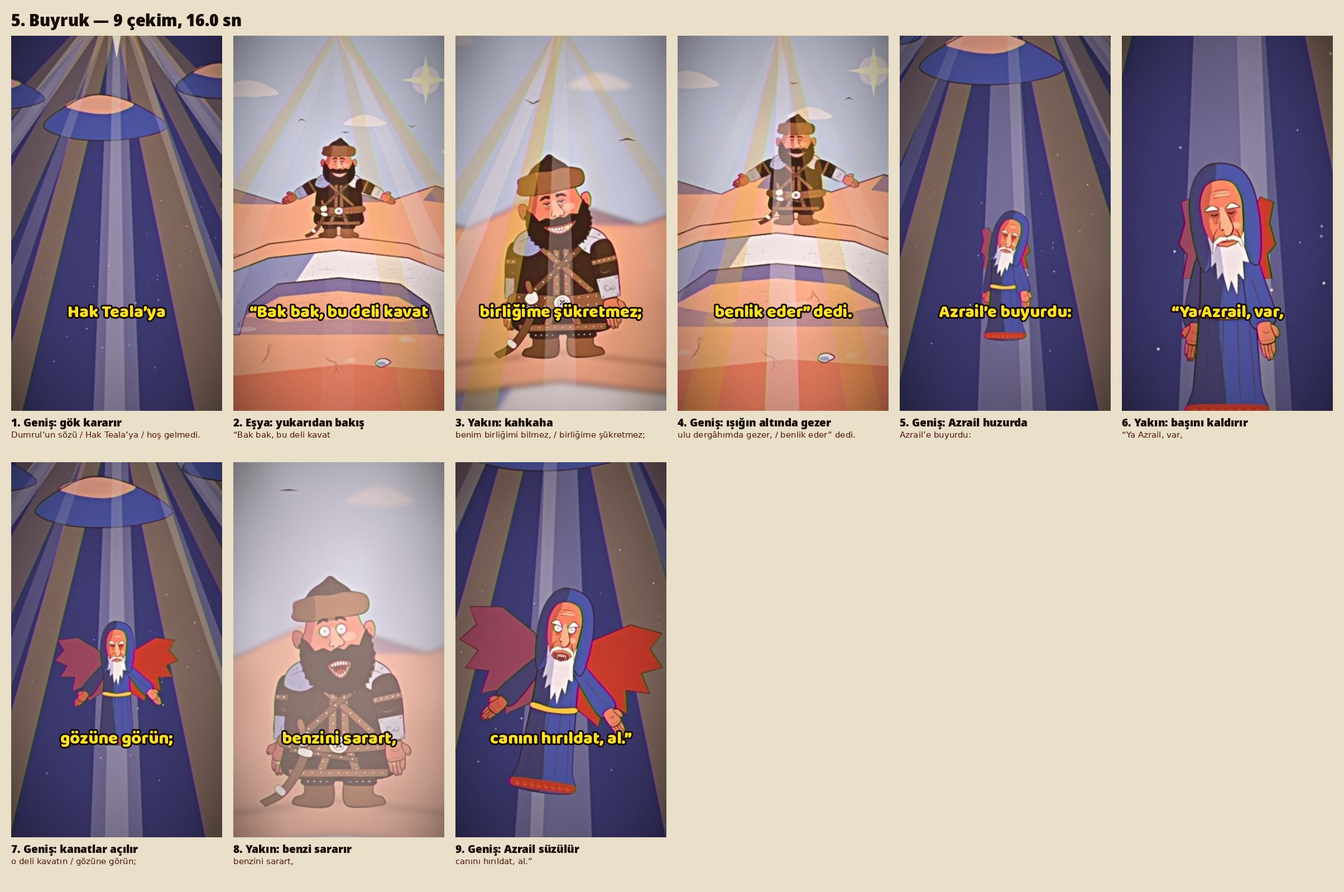
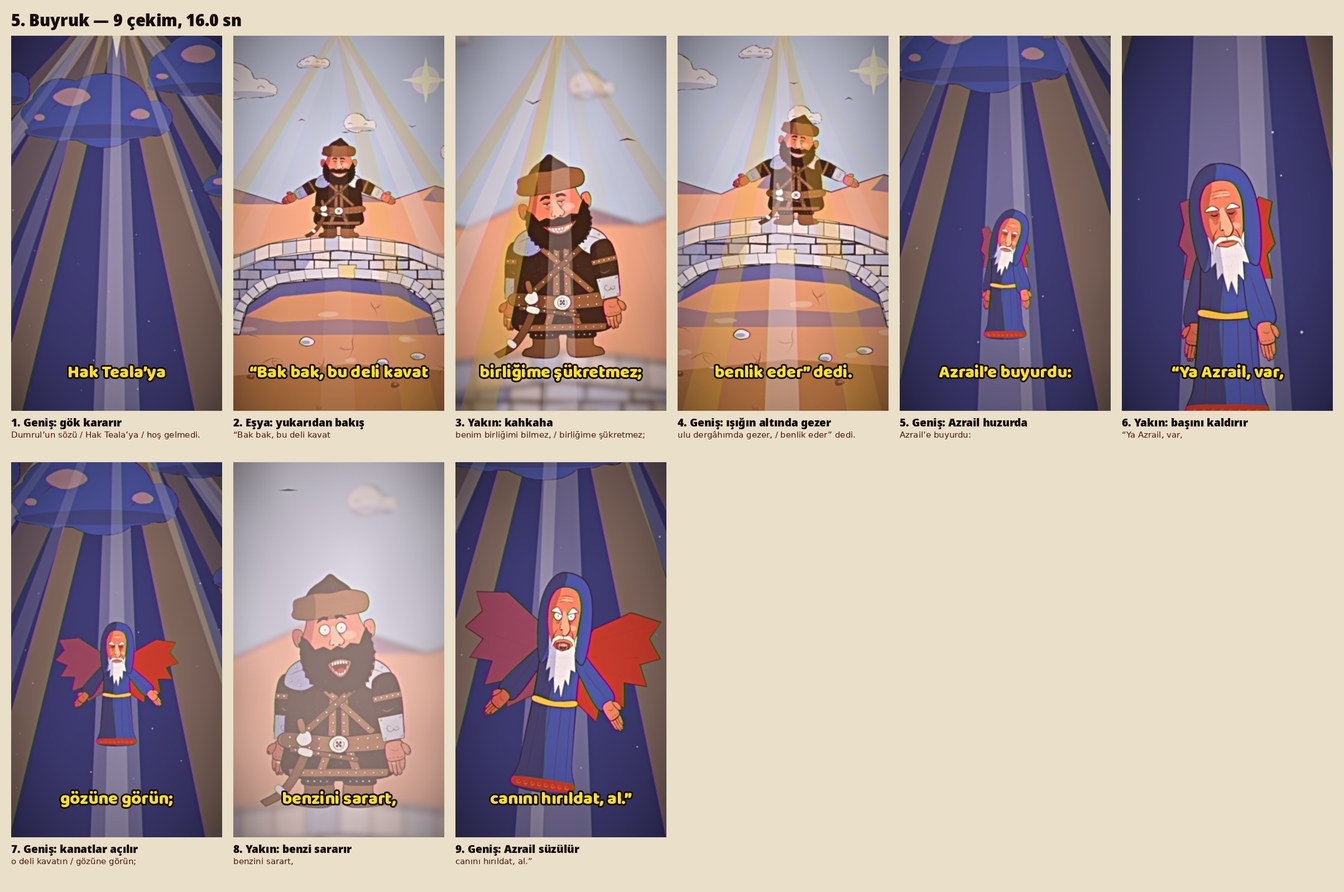
Canlandırma ilkeleri (hazırlık, ardından gelme, ezilme-uzama, yay, ikincil hareket, kişiye göre tempo); taş köprü, toprak yer, düzensiz bulutlar; al kanatlı Azrail çekimi, gerçek tüy

diff --git a/shorts/deli_dumrul/sets2.py b/shorts/deli_dumrul/sets2.py
@@ -4,17 +4,41 @@ from ..kit import *
 from .cast import COBALT, SKIN, SKIN_L, SKIN_D, PALE, GOLD, RED, COAT, LEATHER
 from . import sets as S
 from .cast import strap
+from ..kit import _scatter
 
 DAY = '#b7c4f0'       # gündüz göğü: mavinin açığı
 W, H = 1500, 1920
+
+
+EARTH, EARTH_D = '#b0683a', '#7a4426'   # toprak ve koyusu (yer, köprünün taşından ayrışsın diye)
+
+
+def cloud(cx, cy, k, name, col=PALE, lit=None, shade=COBALT):
+    """Küme bulut: irili ufaklı, düzensiz yumrular; altı düzçe ve gölgeli. Her bulut adına göre başka biçim alır."""
+    reseed('cloud' + name)
+    n = int(R(4, 8)); lobes = []; x = cx - k * R(120, 190)
+    for i in range(n):
+        mid = 1 - abs(i - (n - 1) / 2) / (n / 2 + 0.5)
+        r = k * R(34, 62) * (0.55 + 0.75 * mid) * R(0.8, 1.25)
+        lobes.append((x, cy - r * R(0.35, 0.8) - k * R(0, 26) * mid, r * R(1.0, 1.35), r))
+        x += r * R(0.8, 1.25)
+    x0, x1 = lobes[0][0] - lobes[0][2] * 0.7, lobes[-1][0] + lobes[-1][2] * 0.7
+    base = [(x0, cy - 6 * k), (x0 + 20 * k, cy + R(6, 16) * k), ((x0 + x1) / 2 + R(-40, 40) * k, cy + R(10, 22) * k), (x1 - 24 * k, cy + R(4, 14) * k), (x1, cy - 8 * k), ((x0 + x1) / 2, cy - 30 * k)]
+    shapes = [ellipse(lx, ly, rx, ry, 10, 0.06) for lx, ly, rx, ry in lobes] + [base]
+    s = ''.join(ink(p, 3.0, closed=True, wob=0.8, press=0.5) for p in shapes) + ''.join(fill(p, col, 1.2) for p in shapes)      # önce çizgiler, sonra dolgular: yalnız dış çevre kalır
+    s += fill([(x0 + 10 * k, cy - 4 * k), ((x0 + x1) / 2, cy - 16 * k), (x1 - 10 * k, cy - 6 * k), (x1 - 30 * k, cy + 10 * k), ((x0 + x1) / 2, cy + 16 * k), (x0 + 26 * k, cy + 10 * k)], shade, 1.0, op=0.22)
+    for lx, ly, rx, ry in lobes[::2]:
+        s += ink([(lx - rx * 0.5, ly + ry * 0.1), (lx - rx * 0.1, ly - ry * 0.25), (lx + rx * 0.4, ly + ry * 0.05)], 2.0, wob=0.4)        # yumru kıvrımı
+        if lit: s += fill(ellipse(lx + rx * 0.15, ly - ry * 0.4, rx * 0.5, ry * 0.3, 8, 0.1), lit, 0.8, op=0.55)
+    return s
 
 
 def day_sky():
     reseed('daysky')
     s = f'<rect x="-1500" y="-1500" width="{W + 3000}" height="{H + 3000}" fill="{DAY}"/>'
     s += fill(ellipse(1180, 260, 70, 70, 12, 0.01), PALE, 0.8) + sparkle(1180, 260, 120, '#fff6d8')
-    for cx, cy, k in ((300, 330, 1.0), (880, 480, 0.7), (1380, 620, 0.8)):
-        s += fill([(cx - 150 * k, cy), (cx - 90 * k, cy - 46 * k), (cx - 10 * k, cy - 70 * k), (cx + 80 * k, cy - 50 * k), (cx + 150 * k, cy), (cx, cy + 14 * k)], PALE, 1.4)
+    for i, (cx, cy, k) in enumerate(((300, 330, 1.0), (900, 500, 0.62), (1400, 640, 0.8), (-200, 600, 0.9), (640, 190, 0.45))):
+        s += cloud(cx, cy, k, f'day{i}')
     return s
 
 
@@ -27,25 +51,75 @@ def day_hills():
     return s + ink(far[:-2], 3.0, smooth=False, wob=0.5, taper=(0, 0))
 
 
+def stones(poly, cid, course=46, wmin=58, wmax=118, name='wall'):
+    """Bir alanı tek tek çizilmiş, sıra sıra örülmüş kesme taşlarla doldurur; her taşın tonu biraz başkadır."""
+    reseed('stones-' + name)
+    xs = [p[0] for p in poly]; ys = [p[1] for p in poly]
+    s = clipdef(cid, poly, smooth=False) + f'<g clip-path="url(#{cid})">' + fill(poly, INK, 0, smooth=False)
+    y = min(ys); row = 0
+    while y < max(ys):
+        x = min(xs) - R(0, wmax) * (row % 2 + 0.3)
+        while x < max(xs):
+            w = R(wmin, wmax); g = 3
+            q = [(x + g + R(-2, 2), y + g + R(-2, 2)), (x + w - g + R(-2, 2), y + g + R(-2, 2)), (x + w - g + R(-2, 2), y + course - g + R(-2, 2)), (x + g + R(-2, 2), y + course - g + R(-2, 2))]
+            s += fill(q, PALE, 1.2, smooth=False)
+            tone = R(0, 1)
+            s += fill(q, COBALT if tone < 0.6 else LEATHER, 0, smooth=False, op=R(0.06, 0.3) if tone < 0.6 else R(0.1, 0.28))
+            if R(0, 1) > 0.55: s += ink([(x + w * R(0.2, 0.4), y + course * R(0.3, 0.7)), (x + w * R(0.5, 0.8), y + course * R(0.3, 0.7))], 1.8, wob=0.4, taper=(0.2, 0.5), smooth=False)   # yontma izi
+            if R(0, 1) > 0.8: s += dots(q, 5, (1.0, 1.8))
+            x += w
+        y += course; row += 1
+    return s + '</g>'
+
+
 def bridge():
-    """Kuru çay ve üstündeki taş köprü; yanında haraç direği ve al bayrak."""
+    """Kuru çay ve üstündeki kesme taş köprü; yanında haraç direği ve al bayrak. Yer toprak, çay yatağı çatlak balçık, köprü taş."""
     reseed('bridge-ground')
-    s = fill([(-900, 1180), (W + 900, 1170), (W + 900, H + 900), (-900, H + 900)], SKIN, 1.5, smooth=False)
+    s = fill([(-900, 1180), (W + 900, 1170), (W + 900, H + 900), (-900, H + 900)], EARTH, 1.5, smooth=False)
+    s += fill([(-900, 1180), (W + 900, 1170), (W + 900, 1230), (700, 1250), (-900, 1240)], SKIN, 1.5, smooth=False, op=0.55)                 # ufka yakın, güneşte ağaran toprak
+    area = [(-300, 1230), (W + 300, 1230), (W + 300, H + 100), (-300, H + 100)]
+    s += ticks(area, 150, (8, 20), 0.05, 0.25, 2.2, EARTH_D)                                                                               # toprak izleri
+    for x, y in _scatter(area, 46):                                                                                                         # kesekler ve çakıllar
+        r = R(7, 20)
+        s += blob(ellipse(x, y, r, r * 0.6, 6, 0.25), EARTH_D if R(0, 1) > 0.35 else PALE, 2.0) + fill(ellipse(x + r * 0.2, y - r * 0.2, r * 0.45, r * 0.22, 5), SKIN_L, 0.4, op=0.6)
+    for x, y in _scatter(area, 22):                                                                                                         # kuru ot öbekleri
+        s += ''.join(ink([(x + k * 5, y), (x + k * 9 + R(-3, 3), y - R(16, 34))], 2.4, col=EARTH_D, op=1, taper=(0, 0.7), wob=0, smooth=False) for k in (-2, -1, 0, 1, 2))
     bed = [(-200, 1560), (200, 1420), (700, 1380), (1300, 1430), (1700, 1560), (1700, 1760), (800, 1700), (-200, 1800)]
-    s += fill(bed, SKIN_L, 1.6, smooth=False) + ink(bed[:5], 3.0, smooth=False, wob=0.8, taper=(0, 0))
-    for x, y in ((260, 1560), (520, 1500), (820, 1560), (1100, 1520), (680, 1660), (380, 1700), (1280, 1640)): s += cracks(x, y, 120, R(0, 6.28), 2, 2.2)   # çatlamış çay yatağı
-    for x, y in ((180, 1640), (960, 1690), (1360, 1560)): s += blob(ellipse(x, y, 34, 20, 7, 0.2), PALE, 2.8) + fill(ellipse(x - 8, y + 6, 22, 9, 6), COBALT, 0.6, op=0.4)
+    s += fill([(x, y - 26) for x, y in bed[:5]] + bed[4::-1], EARTH_D, 1.6, smooth=False)                                                    # yarın dik kıyısı
+    s += fill(bed, SKIN_L, 1.6, smooth=False) + fill(bed, EARTH, 1.6, smooth=False, op=0.4) + ink(bed[:5], 3.4, smooth=False, wob=0.9, taper=(0, 0))
+    for x, y in ((260, 1560), (520, 1500), (820, 1560), (1100, 1520), (680, 1660), (380, 1700), (1280, 1640), (960, 1460), (140, 1700), (1450, 1600)):
+        s += cracks(x, y, 130, R(0, 6.28), 2, 2.4)                                                                                           # çatlamış çay yatağı
+    for x, y in ((180, 1640), (960, 1690), (1360, 1560), (600, 1590), (1120, 1660)):
+        s += blob(ellipse(x, y, R(24, 40), R(14, 22), 7, 0.2), PALE, 2.8) + fill(ellipse(x - 8, y + 6, 22, 9, 6), COBALT, 0.6, op=0.4)        # dere taşları
     reseed('bridge')
     deck = [(120, 1250), (420, 1130), (750, 1090), (1080, 1130), (1380, 1250), (1380, 1310), (1080, 1196), (750, 1160), (420, 1196), (120, 1310)]
     wall = [(120, 1310), (420, 1196), (750, 1160), (1080, 1196), (1380, 1310), (1380, 1560), (1220, 1560), (1180, 1420), (1040, 1320), (750, 1290), (460, 1320), (320, 1420), (280, 1560), (120, 1560)]
-    s += fill(wall, PALE, 1.4, smooth=False) + fill([(120, 1310), (420, 1196), (640, 1168), (540, 1320), (460, 1320), (320, 1420), (280, 1560), (120, 1560)], COBALT, 1.2, smooth=False, op=0.55)
     hole = [(460, 1320), (750, 1290), (1040, 1320), (1180, 1420), (1220, 1560), (280, 1560), (320, 1420)]
-    s += fill(hole, SKIN_L, 1.0, smooth=False) + fill([(460, 1320), (750, 1290), (1040, 1320), (1180, 1420), (1196, 1470), (1030, 1380), (750, 1352), (470, 1380), (304, 1470), (320, 1420)], COBALT, 1.0, smooth=False, op=0.7)   # kemerin iç yüzü gölgede
-    s += fill([(280, 1560), (304, 1470), (470, 1500), (760, 1486), (1050, 1500), (1196, 1470), (1220, 1560)], COBALT, 0.8, smooth=False, op=0.35) + ink(hole[:5], 3.0, smooth=False, wob=0.5, taper=(0, 0))
-    s += '<g>' + masonry(130, 1210, 1370, 1540, 40, 2.0) + '</g>' + ink(wall, 3.6, closed=True, smooth=False, wob=0.6)
-    s += fill(deck, SKIN_L, 1.2, smooth=False) + ink(deck, 3.4, closed=True, smooth=False, wob=0.6) + cracks(900, 1400, 90, 1.3, 2, 2.0) + cracks(300, 1480, 70, 2.0, 1, 2.0)
+    # kemerin içinden görünen karşı kıyı ve iç yüzün gölgesi
+    s += fill(hole, SKIN_L, 1.0, smooth=False) + fill(hole, EARTH, 1.0, smooth=False, op=0.4)
+    s += fill([(460, 1320), (750, 1290), (1040, 1320), (1180, 1420), (1196, 1470), (1030, 1380), (750, 1352), (470, 1380), (304, 1470), (320, 1420)], COBALT, 1.0, smooth=False, op=0.8)
+    s += fill([(280, 1560), (304, 1470), (470, 1500), (760, 1486), (1050, 1500), (1196, 1470), (1220, 1560)], COBALT, 0.8, smooth=False, op=0.4)
+    s += stones(wall, 'bw')
+    s += fill([(120, 1310), (420, 1196), (640, 1168), (540, 1320), (460, 1320), (320, 1420), (280, 1560), (120, 1560)], COBALT, 1.2, smooth=False, op=0.38)   # gölgede kalan yan
+    # kemer taşları: kemer boyunca dizili kama taşlar, ortada kilit taşı
+    arch = catmull([(280, 1560), (320, 1420), (460, 1320), (750, 1290), (1040, 1320), (1180, 1420), (1220, 1560)], False, 4)
+    for i in range(len(arch) - 1):
+        (x0, y0), (x1, y1) = arch[i], arch[i + 1]
+        dx, dy = x1 - x0, y1 - y0; d = math.hypot(dx, dy) or 1; nx, ny = dy / d, -dx / d
+        key = abs(i - (len(arch) - 1) / 2) < 0.6; t = 62 if key else 46
+        q = [(x0, y0), (x1, y1), (x1 + nx * t + dx * 0.08, y1 + ny * t), (x0 + nx * t - dx * 0.08, y0 + ny * t)]
+        s += fill(q, PALE, 1.0, smooth=False) + fill(q, GOLD if key else COBALT, 0, smooth=False, op=0.5 if key else R(0.04, 0.2)) + ink(q, 2.6, closed=True, smooth=False, wob=0.4)
+    s += ink(wall, 3.8, closed=True, smooth=False, wob=0.6)
+    # korkuluk: yan yana yatırılmış kapak taşları
+    top = catmull(deck[:5], False, 5); bot = catmull(deck[9:4:-1], False, 5)
+    s += fill(deck, PALE, 1.2, smooth=False)
+    for i in range(len(top) - 1):
+        q = [top[i], top[i + 1], bot[i + 1], bot[i]]
+        s += fill(q, PALE, 0.8, smooth=False) + fill(q, SKIN_L if i % 3 else COBALT, 0, smooth=False, op=R(0.1, 0.3)) + ink(q, 2.6, closed=True, smooth=False, wob=0.4)
+        if i % 2: s += ticks(q, 2, (6, 12), 0.2, 0.4, 1.8)
+    s += ink(deck, 3.6, closed=True, smooth=False, wob=0.6) + cracks(900, 1400, 80, 1.3, 2, 2.2) + cracks(300, 1480, 70, 2.0, 1, 2.2)
+    for x, y in ((150, 1556), (1350, 1556), (1240, 1556), (262, 1556)): s += ''.join(ink([(x + k * 6, y), (x + k * 10, y - R(14, 30))], 2.4, col=EARTH_D, op=1, taper=(0, 0.7), wob=0, smooth=False) for k in (-1, 0, 1))   # ayaklardaki otlar
     s += ink([(1420, 1300), (1424, 900)], 12, col=LEATHER, taper=(0.02, 0.1), wob=0.6, press=0.1, smooth=False) + blob([(1426, 910), (1560, 930), (1530, 980), (1570, 1030), (1426, 1020)], RED, 3.0) + medallion(1480, 968, 20, GOLD, 2.0)
-    s += ticks([(-200, 1200), (W + 200, 1200), (W + 200, 1380), (-200, 1380)], 60, (5, 10), 1.57, 0.5, 2.0)
     return s
 
 
@@ -105,9 +179,8 @@ def heaven():
         a = -0.9 + i * 0.225; x1 = 750 + math.sin(a) * 2400; w = 70 + (i % 3) * 40
         s += fill([(750 - 30, 60), (750 + 30, 60), (x1 + w, 2100), (x1 - w, 2100)], [GOLD, PALE, GOLD][i % 3], 0, smooth=False, op=0.26 + 0.1 * (i % 2))
     s += fill(ellipse(750, 80, 220, 120, 12, 0.02), PALE, 0, op=0.9) + sparkle(750, 80, 260, '#fff6d8')
-    for cx, cy, k in ((240, 520, 1.3), (1220, 470, 1.4), (700, 640, 1.8), (80, 880, 1.2), (1400, 900, 1.3)):
-        cl = [(cx - 150 * k, cy), (cx - 96 * k, cy - 50 * k), (cx - 20 * k, cy - 78 * k), (cx + 70 * k, cy - 56 * k), (cx + 150 * k, cy), (cx + 60 * k, cy + 30 * k), (cx - 70 * k, cy + 30 * k)]
-        s += fill(cl, COBALT, 1.6) + fill([cl[1], cl[2], cl[3], (cx, cy - 30 * k)], SKIN_L, 1.2, op=0.9) + ink(cl, 3.0, closed=True, wob=0.8)
+    for i, (cx, cy, k) in enumerate(((240, 520, 1.3), (1220, 470, 1.5), (700, 660, 1.9), (80, 900, 1.2), (1400, 920, 1.35))):
+        s += cloud(cx, cy, k, f'heaven{i}', COBALT, SKIN_L, INK)
     for _ in range(40): s += f'<circle cx="{R(0, W):.0f}" cy="{R(900, 1800):.0f}" r="{R(1.2, 3):.1f}" fill="{PALE}" opacity="{R(0.4, 0.9):.2f}"/>'
     return s
 

diff --git a/shorts/deli_dumrul/engine.py b/shorts/deli_dumrul/engine.py
@@ -49,25 +49,84 @@ BLINKERS = ('neutral', 'smug', 'stern', 'joy', 'grief', 'anger')
 BLINK = {'dumrul': 'blink', 'azrail': 'blink'}
 
 
-def actor(spec, u, idx=0):
+# Zamanlama: her kişinin kendi temposu (yay sıklığı, sönüm). Ağır Dumrul geç oturur, Azrail taşmadan durur, oğlancıklar çabuktur.
+TEMPO = {'dumrul': (1.7, 4.0), 'rider': (1.7, 4.0), 'father': (1.3, 3.2), 'mother': (1.6, 4.0), 'azrail': (0.9, 6.5), 'boy0': (3.0, 5.5), 'boy1': (3.0, 5.5),
+         'dede': (1.2, 4.0), 'wife': (2.2, 5.0), 'trav': (2.6, 5.0), 'horse': (1.6, 4.0)}
+clamp = lambda v, lo, hi: max(lo, min(hi, v))
+
+
+def pose(spec, u, nfr):
+    """Oyuncunun u anındaki duruşu. Hazırlık (anticipation): harekete geçmeden birkaç kare önce ters yöne hafifçe çekilir.
+    Yay (arc): 'arc' verilmişse yer değiştirme düz çizgide değil kavis üstünde olur."""
     kind, p0 = spec[0], spec[1]
     p1 = spec[2] if len(spec) > 2 else None
     t0 = spec[3] if len(spec) > 3 else 0.12
-    p = dict(p0)
+    p = dict(p0); k = 0.0
     if p1:
-        k = (ease if p1.get('glide') else spring)((u - t0) / max(1e-6, 1 - t0)) if u > t0 else 0.0
+        d = max(1e-6, 1 - t0)
+        if p1.get('glide'): k = ease((u - t0) / d) if u > t0 else 0.0
+        else:
+            ant = min(t0, 5.0 / nfr)
+            if u > t0: k = spring((u - t0) / d, *TEMPO.get(kind, (2.2, 5.0)))
+            elif ant > 0 and u > t0 - ant: k = -0.16 * math.sin(math.pi * (u - (t0 - ant)) / ant)
         for key, v in p1.items():
             if isinstance(v, bool) or not isinstance(v, (int, float)): p[key] = v if u > t0 else p0.get(key, v)
             else: p[key] = lerp(p0.get(key, v), v, k)
+        arc = p1.get('arc', 0.18 * abs(p1.get('x', p0['x']) - p0['x']) if kind == 'dove' else 0)
+        if arc: p['y'] -= arc * math.sin(math.pi * clamp(k, 0, 1))
+    p['_t0'] = t0 if p1 else None
+    return p
+
+
+def actor(spec, u, idx=0, nfr=45):
+    kind = spec[0]
+    p = pose(spec, u, nfr); q = pose(spec, u - 4.0 / nfr, nfr)            # dört kare önceki duruş: hız buradan çıkar
+    vx, vy, vr = p['x'] - q['x'], p['y'] - q['y'], p.get('rot', 0) - q.get('rot', 0)
     e = p.get('e', 'neutral')
-    if e in BLINKERS and abs((F.NOW * 0.52 + idx * 0.37) % 1 - 0.5) < 0.03 and not kind.startswith(('extra', 'dead', 'horse', 'falcon', 'trav', 'dove', 'goblet', 'rider')): e = 'blink'
-    s = p.get('s', 0.6)
+    still = kind.startswith(('extra', 'dead', 'horse', 'falcon', 'trav', 'dove', 'goblet', 'rider'))
+    if e in BLINKERS and abs((F.NOW * 0.52 + idx * 0.37) % 1 - 0.5) < 0.03 and not still: e = 'blink'
+    s = p.get('s', 0.6); t = F.NOW
     foot, fn = KINDS[kind]
-    bob = math.sin(F.NOW * 2.1 + idx * 1.7) * 2.5 * s                                    # nefes
-    if p.get('walk'): bob += abs(math.sin(F.NOW * 9 + idx)) * 22 * s                      # yürüyüş, koşu
-    rot = p.get('rot', 0) + (math.sin(F.NOW * 13) * 5 if p.get('gallop') else 0) + (math.sin(F.NOW * 26) * 2.5 * p.get('shake', 0))
-    if p.get('gallop'): bob += abs(math.sin(F.NOW * 13)) * 40 * s
-    return (p.get('z', p['y'] + foot * s), at(fn(p, e), p['x'], p['y'] - bob, s, rot, p.get('flip', False)))
+    x, y, rot = p['x'], p['y'], p.get('rot', 0)
+    y -= math.sin(t * 2.1 + idx * 1.7) * 2.5 * s                                         # nefes
+    sx = sy = 1.0
+    # --- ikincil hareket: herkesin kendi küçük işi
+    if kind.startswith('extra'):
+        if e == 'fear': rot += math.sin(t * 31 + idx) * 1.3                               # korkudan titrer
+        else:
+            rot += 2.5 * math.sin(t * 1.1 + idx * 2)
+            ph = (t * 0.23 + idx * 0.31) % 1
+            if ph < 0.14: w = math.sin(math.pi * ph / 0.14); rot -= 9 * w; y -= 9 * w * s   # kadehinden bir yudum
+    elif kind.startswith('mourner'): rot += 5 * math.sin(t * 2.4 + idx * 1.3); y += 6 * s * math.sin(t * 4.8 + idx)   # ağıtla sallanır
+    elif kind.startswith('boy'): y -= abs(math.sin(t * 3 + idx)) * 7 * s                   # yerinde duramaz
+    elif kind == 'falcon': rot += 7 * round(math.sin(t * 1.4))                             # başını bir o yana bir bu yana eğer
+    elif kind == 'azrail': y += 5 * math.sin(t * 1.2)                                      # ağır ağır süzülür
+    elif kind == 'dede': rot += 2 * math.sin(t * 3)                                        # kopuzla sallanır
+    # --- yürüyüş, dörtnal: basarken ezilir, havadayken uzar
+    if p.get('walk'):
+        c = abs(math.sin(t * 9 + idx)); y -= c * 22 * s; sy *= 0.95 + 0.09 * c
+    if p.get('gallop'):
+        c = abs(math.sin(t * 13)); y -= c * 40 * s; rot += math.sin(t * 13) * 5; sy *= 0.93 + 0.12 * c
+    rot += math.sin(t * 26) * 2.5 * p.get('shake', 0)
+    # --- ezilme ve uzama: hızlı düşey harekette uzar; 'land' anında yere çarpıp ezilir, sonra toparlanır
+    st = min(0.16, abs(vy) / (700 * s)); sy *= 1 + st
+    if 'land' in p:
+        n = (u - p['land']) * nfr
+        if 0 <= n < 14:
+            sq = 0.24 * math.exp(-n / 3.5) * math.cos(n * 0.8)
+            if abs(rot) > 45: sx *= 1 - sq                                                   # yatan gövdede yere dik eksen gövdenin enidir
+            else: sy *= 1 - sq
+    if p['_t0'] is not None and e in ('shock', 'fear', 'wrath') and u > p['_t0']:        # abartı: irkilirken bir an uzar
+        sy *= 1 + 0.12 * math.exp(-(u - p['_t0']) * nfr / 4)
+    sx /= sy ** 0.5 if abs(rot) <= 45 else 1; 
+    # --- ardından gelme: sarkan parçalar gövdeden geç kalır, durunca bir iki kez sallanıp oturur
+    sw = clamp(vx * 0.3 / s + vr * 0.9 + (p.get('hr', 0) - q.get('hr', 0)) * 0.9, -24, 24) + 2.5 * math.sin(t * 1.7 + idx)
+    if kind in ('horse', 'rider'): sw += 9 * math.sin(t * (13 if p.get('gallop') else 2.3))
+    C.SWAY = -sw if p.get('flip') else sw
+    if 'hr' in p or kind in ('dumrul', 'azrail', 'father', 'mother', 'wife', 'dede'):
+        p['hr'] = p.get('hr', 0) + clamp(vx * 0.1 / s - vy * 0.08 / s, -9, 9)             # baş, gövdenin ardından gelir
+    body = group(fn(p, e), 0, 0, 0, sx, sy, 0, foot)
+    return (p.get('z', p['y'] + foot * s), at(body, x, y, s, rot, p.get('flip', False)))
 
 
 # ----------------------------------------------------------------------------- arka plan canlılığı
@@ -173,7 +232,7 @@ def compose(shot, u, w, h):
     if st['sky']:
         over(out, warp(shot['set'], 'sky', cam, 0.12, w, h)); over(out, warp(shot['set'], 'back', cam, 0.45, w, h))
     over(out, warp(shot['set'], 'mid', cam, 1.0, w, h))
-    items = [actor(a, u, i) for i, a in enumerate(shot.get('a', []))] + st['life'](F.NOW)
+    items = [actor(a, u, i, frames_of(shot)) for i, a in enumerate(shot.get('a', []))] + st['life'](F.NOW)
     body = F.layer(''.join(b for _, b in sorted(items, key=lambda it: it[0])), cam, 1.0, False) + (shot['fx'](u) if shot.get('fx') else '')
     fg = np.asarray(raster(head + f'<defs>{S.HALO}</defs>{body}</svg>', w, h)).astype(np.float32)
     fg[:, :, :3] *= fg[:, :, 3:4] / 255
@@ -191,7 +250,7 @@ def draw(shot, u):
     s = ''
     if st['sky']: s += F.layer(st['sky'](), cam, 0.12, blur) + F.layer(st['back'](), cam, 0.45, blur)
     s += F.layer(st['mid'](), cam, 1.0, blur)
-    items = [actor(a, u, i) for i, a in enumerate(shot.get('a', []))] + st['life'](F.NOW)
+    items = [actor(a, u, i, frames_of(shot)) for i, a in enumerate(shot.get('a', []))] + st['life'](F.NOW)
     s += F.layer(''.join(b for _, b in sorted(items, key=lambda it: it[0])), cam, 1.0, False)
     if st.get('fore') and not shot.get('nofore'): s += F.layer(st['fore'](), cam, 1.18, blur)
     if shot.get('fx'): s += shot['fx'](u)

diff --git a/shorts/deli_dumrul/cast2.py b/shorts/deli_dumrul/cast2.py
@@ -2,6 +2,7 @@
 Ortak yüz kurucu (gface) her kişiye ayrı kafatası, burun ve kaş verir; ifadeler ortaktır."""
 import math
 from ..kit import *
+from . import cast as C0
 from .cast import COBALT, SKIN, SKIN_D, SKIN_L, PALE, GOLD, RED, COAT, LEATHER, hand, stud, strap
 
 EX = {
@@ -117,7 +118,7 @@ def father_head(expr='neutral'):
     s, d = gface('father', 104, 122, 0.92, (78, 28, 0.55), (0.3, -0.16, 12, 8), (PALE, 13), (0.4, 0.5), expr, bags=3, wrinkles=3)
     reseed('father-beard')
     beard = [(-100, 30), (-70, 78 + d), (0, 96 + d), (70, 78 + d), (100, 30), (112, 150 + d), (86, 140 + d), (92, 250 + d), (58, 226 + d), (44, 330 + d), (16, 286 + d), (0, 372 + d), (-20, 290 + d), (-46, 326 + d), (-58, 226 + d), (-92, 252 + d), (-84, 140 + d), (-112, 150 + d)]
-    s += barbed(beard, PALE, 2.6, [(-100, 30), (-70, 78 + d), (-30, 92 + d), (-30, 330 + d), (-112, 252 + d), (-112, 150 + d)]) + fur(beard, 8, 13, 12, 0.1, 1.9)
+    s += group(barbed(beard, PALE, 2.6, [(-100, 30), (-70, 78 + d), (-30, 92 + d), (-30, 330 + d), (-112, 252 + d), (-112, 150 + d)]) + fur(beard, 8, 13, 12, 0.1, 1.9), 0, 0, C0.SWAY * 0.6, 1, None, 0, 60)
     for sx in (-1, 1): s += barbed([(0, 52), (sx * 30, 46), (sx * 62, 70), (sx * 70, 120 + d), (sx * 48, 96 + d * 0.5), (sx * 22, 76), (0, 70)], PALE, 2.2)
     reseed('father-hat')
     dome = [(-84, -96), (-66, -200), (-10, -262), (40, -230), (80, -150), (90, -96)]
@@ -171,16 +172,18 @@ def wife_head(expr='neutral'):
     """İnce uzun yüz, kirpikli iri göz; yüksek altın başlık, arkadan dökülen duvak, iki uzun kara örgü."""
     reseed('wife-veil')
     veil = [(-70, -230), (0, -250), (70, -230), (130, -60), (150, 160), (110, 330), (40, 300), (-40, 300), (-110, 330), (-150, 160), (-130, -60)]
-    s = blob(veil, PALE, 3.0) + fill([(-70, -230), (-130, -60), (-150, 160), (-110, 330), (-70, 300), (-90, 0)], COBALT, 1.0, op=0.3) + ''.join(ink([(x, -40), (x * 1.15, 300)], 1.8, wob=0.6) for x in (-104, 100))
+    s = group(blob(veil, PALE, 3.0) + fill([(-70, -230), (-130, -60), (-150, 160), (-110, 330), (-70, 300), (-90, 0)], COBALT, 1.0, op=0.3) + ''.join(ink([(x, -40), (x * 1.15, 300)], 1.8, wob=0.6) for x in (-104, 100)), 0, 0, C0.SWAY * 0.5, 1, None, 0, -230)
     s += blob([(-26, 80), (26, 80), (30, 190), (-30, 190)], SKIN_D, 3.0)                                            # uzun boyun
     f, d = gface('wife', 88, 112, 0.84, (56, 16, 0.0), (0.34, -0.1, 15, 11), (INK, 6), (0.32, 0.5), expr, bags=0, wrinkles=0, lash=True)
     s += f + fill(ellipse(0, 62 + d * 0.45, 22, 7, 7), RED, 0.5, op=0.55 if EX[expr]['m'] in ('line', 'frown', 'purse') else 0)
     reseed('wife-hair')
     s += fill([(-92, -30), (-78, -96), (0, -118), (78, -96), (92, -30), (60, -70), (0, -84), (-60, -70)], INK, 0.8)
     for sx in (-1, 1):                                                                                                # örgüler
+        br = ''
         for k in range(9):
-            s += fill(ellipse(sx * (96 - k * 2), 10 + k * 40, 17 - k * 0.6, 22, 7, 0.1), INK, 0.6)
-        s += ''.join(ink([(sx * (84 - k * 2), 20 + k * 40), (sx * (108 - k * 2), 34 + k * 40)], 1.8, col=PALE, op=0.5, wob=0, smooth=False) for k in range(9)) + blob(ellipse(sx * 78, 376, 12, 14, 7), GOLD, 2.2)
+            br += fill(ellipse(sx * (96 - k * 2), 10 + k * 40, 17 - k * 0.6, 22, 7, 0.1), INK, 0.6)
+        br += ''.join(ink([(sx * (84 - k * 2), 20 + k * 40), (sx * (108 - k * 2), 34 + k * 40)], 1.8, col=PALE, op=0.5, wob=0, smooth=False) for k in range(9)) + blob(ellipse(sx * 78, 376, 12, 14, 7), GOLD, 2.2)
+        s += group(br, 0, 0, C0.SWAY * 0.9, 1, None, sx * 96, 10)
     reseed('wife-hat')
     hat = [(-74, -92), (-52, -200), (-24, -292), (24, -292), (52, -200), (74, -92), (0, -80)]
     s += blob(hat, GOLD, 3.2) + fill([(-74, -92), (-52, -200), (-24, -292), (-8, -292), (-18, -88)], COBALT, 0.8, op=0.3)
@@ -219,7 +222,7 @@ def dede_head(expr='joy'):
     s = f
     reseed('dede-beard')
     beard = [(-92, 30), (-62, 84 + d), (0, 100 + d), (62, 84 + d), (92, 30), (96, 170 + d), (70, 300 + d), (40, 420 + d), (24, 300 + d), (0, 250 + d), (-24, 300 + d), (-40, 420 + d), (-70, 300 + d), (-96, 170 + d)]
-    s += barbed(beard, PALE, 2.6, [(-92, 30), (-62, 84 + d), (-20, 98 + d), (-24, 300 + d), (-40, 420 + d), (-70, 300 + d), (-96, 170 + d)]) + fur(beard, 9, 13, 12, 0.1, 1.9)
+    s += group(barbed(beard, PALE, 2.6, [(-92, 30), (-62, 84 + d), (-20, 98 + d), (-24, 300 + d), (-40, 420 + d), (-70, 300 + d), (-96, 170 + d)]) + fur(beard, 9, 13, 12, 0.1, 1.9), 0, 0, C0.SWAY * 0.6, 1, None, 0, 60)
     for sx in (-1, 1): s += barbed([(0, 56), (sx * 30, 48), (sx * 66, 66), (sx * 86, 110 + d), (sx * 52, 92 + d * 0.5), (sx * 22, 80), (0, 74)], PALE, 2.2)
     reseed('dede-turban')
     tb = [(-150, -80), (-140, -170), (-70, -236), (20, -256), (110, -220), (156, -140), (150, -70), (60, -52), (-60, -56)]
@@ -321,7 +324,7 @@ def horse(spooked=False):
         return r + blob([(hx - 40, 296), (hx + 6, 296), (hx + 10, 330), (hx - 44, 330)], COAT, 2.6)
     s += leg(-150, True, False) + leg(210, True, True)
     tail = [(250, -50), (320, -60), (370, 40), (360, 190), (320, 250), (310, 120), (270, 20)]
-    s += fill(tail, COAT, 0.8) + ink(tail, 3.0, closed=True) + fur(tail, 6, 14, 14, 1.2, 2.0)
+    s += group(fill(tail, COAT, 0.8) + ink(tail, 3.0, closed=True) + fur(tail, 6, 14, 14, 1.2, 2.0), 0, 0, C0.SWAY * 1.2, 1, None, 250, -50)
     body = [(-246, -60), (-170, -124), (-60, -102), (60, -98), (170, -120), (252, -72), (278, 10), (244, 86), (120, 92), (0, 70), (-120, 104), (-226, 96), (-276, 10)]
     s += blob(body, PALE, 3.8) + fill([(-276, 10), (-226, 96), (-120, 104), (0, 70), (120, 92), (244, 86), (278, 10), (150, 40), (-150, 50)], COBALT, 1.0, op=0.32) + ink([(-210, -20), (-196, 40), (-216, 84)], 2.0, wob=0.3) + ink([(196, -40), (220, 20), (204, 70)], 2.0, wob=0.3)
     s += leg(-210, False, False) + leg(150, False, True)

diff --git a/shorts/deli_dumrul/scenes.py b/shorts/deli_dumrul/scenes.py
@@ -135,8 +135,9 @@ SCENES['soru'] = [
          a=[DEAD, ('rider', dict(RD, x=1060, e='anger', armL=30), dict(armL=100, hr=8), 0.2), ('mourner0', dict(M[0], e='fear')), ('mourner1', dict(M[1], x=700, e='fear'))]),
     dict(n='Yakın: “yiğidimiz öldü”', c='“Hanım, iyi bir|yiğidimiz öldü” dediler,', set='oba', cam=[(520, 1500, 1.9), (640, 1600, 1.8)],
          a=[DEAD, ('mourner0', dict(M[0], e='grief')), ('mourner1', dict(M[1], x=700, e='grief'))]),
-    dict(n='Eşya: al kanat tüyü', c='“al kanatlı Azrail|canını aldı.”', set='oba', cam=[(800, 1660, 2.0), (800, 1670, 2.2)],
-         a=[DEAD], fx=fx_feather()),
+    dict(n='Geniş: al kanatlı Azrail', c='“al kanatlı Azrail|canını aldı.”', set='oba', cam=[(800, 1520, 1.25), (800, 1400, 1.4)],
+         a=[DEAD, ('azrail', dict(x=800, y=1470, s=0.62, e='stern', spread=0.3, z=1500), dict(y=1230, spread=1.5, armL=44, armR=-44), 0.12),
+            ('mourner0', dict(M[0], x=330, e='fear')), ('mourner2', dict(M[2], x=1270, e='fear'))], fx=fx_fade_beam()),
     dict(n='Yakın: küçümser', c='“Azrail dediğiniz|kimdir ki', set='oba', cam=[(1060, 1100, 3.2), (1060, 1096, 3.5)], blur=True,
          a=[('rider', dict(RD, x=1060, e='smug', hr=-8))]),
     dict(n='Yakın: yumruk', c='adamın canını alır?', set='oba', cam=[(1070, 1080, 2.5), (1070, 1070, 2.9)], punch=True, blur=True,
@@ -268,11 +269,11 @@ SCENES['at'] = [
          a=[('rider', dict(x=900, y=1400, s=0.5, e='shock', flip=True, spooked=True, armL=120, armR=-120), dict(rot=-26, y=1360), 0.05), ('azrail', dict(x=1330, y=1160, s=0.5, e='wrath', spread=1.4, armL=40, armR=-40))]),
     dict(n='Geniş: yere çarpar', c='Dumrul’u kaldırıp|yere vurdu.', set='steppe', cam=[(700, 1180, 1.3), (640, 1250, 1.5)],
          a=[('horse', dict(x=1080, y=1400, s=0.5, flip=True, spooked=True, rot=-14, gallop=True), dict(x=1500, glide=True), 0.2),
-            ('dumrul', dict(x=860, y=1000, s=0.5, e='shock', rot=-30, armL=120, armR=-120, z=1700), dict(LIE, glide=True), 0.0)], fx=fx_impact(470, 1250), still=0.8),
+            ('dumrul', dict(x=860, y=1000, s=0.5, e='shock', rot=-30, armL=120, armR=-120, z=1700), dict(LIE, glide=True, arc=260, land=0.93), 0.0)], fx=fx_impact(470, 1250), still=0.8),
     dict(n='Yakın: sersemlemiş', c='Kara başı bunaldı;', set='steppe', cam=[(500, 1320, 1.9), (500, 1320, 2.1)], blur=True,
          a=[('dumrul', dict(LIE, e='shock', shake=0.6))], fx=fx_stars(470, 760)),
     dict(n='Geniş: Azrail göğsüne konar', c='ak göğsünün üstüne|Azrail basıp kondu.', set='steppe', cam=[(700, 1200, 1.5), (700, 1220, 1.7)], hold=0.8,
-         a=[('dumrul', dict(LIE, e='shock', armL=60, armR=-60)), ('azrail', dict(AZC, y=500, e='wrath', spread=1.4), dict(y=1080, spread=1.0), 0.05)]),
+         a=[('dumrul', dict(LIE, e='shock', armL=60, armR=-60)), ('azrail', dict(AZC, y=500, e='wrath', spread=1.4), dict(y=1080, spread=1.0, land=0.3), 0.05)]),
 ]
 
 SCENES['yalvaris'] = [
@@ -423,7 +424,7 @@ SCENES['ikinci-dua'] = [
     dict(n='Geniş: Azrail hatuna yürür', c='Azrail hatunun canını|almaya geldi.', set='inside', cam=[(700, 1240, 1.3), (760, 1240, 1.45)],
          a=[('azrail', dict(x=100, y=1180, s=0.56, e='wrath', spread=1.3, walk=True, z=1400), dict(x=520, glide=True), 0.0), ('wife', dict(WI, e='fear', armL=60, armR=-60)), ('boy0', dict(B0, x=1000, e='fear')), ('boy1', dict(B1, x=1130, e='fear'))]),
     dict(n='İkili: araya girer', c='Dumrul yoldaşına|kıyamadı,', set='inside', cam=[(760, 1240, 1.5), (760, 1236, 1.65)], punch=True,
-         a=[('azrail', dict(x=440, y=1180, s=0.56, e='wrath', spread=1.3, z=1400)), ('dumrul', dict(DI, x=1100, e='anger', z=1900), dict(x=700, armL=110, armR=-110), 0.05), ('wife', dict(WI, x=980, e='fear'))]),
+         a=[('azrail', dict(x=440, y=1180, s=0.56, e='wrath', spread=1.3, z=1400)), ('dumrul', dict(DI, x=1100, e='anger', z=1900), dict(x=700, armL=110, armR=-110, arc=70), 0.05), ('wife', dict(WI, x=980, e='fear'))]),
     dict(n='Yakın: göğe yalvarır', c='Allah’a yalvardı:', set='inside', cam=[(700, 1180, 2.0), (700, 1160, 2.2)], blur=True,
          a=[('dumrul', dict(DI, x=700, e='neutral', hr=-16), dict(armL=150, armR=-150), 0.15)], fx=fx_rays(0.5)),
     dict(n='Geniş: yol üstünde imaretler', c='“Ulu yollar üstüne|senin için|imaretler yapayım;', set='oba', cam=[(400, 1200, 1.2), (1000, 1200, 1.2)], a=[]),

diff --git a/shorts/deli_dumrul/cast.py b/shorts/deli_dumrul/cast.py
@@ -7,6 +7,8 @@ COBALT, SKIN, PALE, GOLD, RED = '#2a3fa3', '#ee6f58', '#e7dcf2', '#e3a72c', '#b3
 SKIN_D, SKIN_L = '#c0473f', '#f89e84'      # gölgede koyu ten, ışıkta açık ten
 COAT, LEATHER = '#23130f', '#8a4b2c'       # Dumrul'un kara deri kaftanı (mürekkebin açığı) ve kayış kahvesi
 
+SWAY = 0.0   # sarkan parçaların (kanat, sakal, örgü, kuyruk) gövdenin ardından savrulma açısı; motor her oyuncu için ayarlar
+
 EXPR = {
     'neutral': dict(brow=0.32, by=4, open=0.9, pupil=4.2, mouth='closed', jaw=0),      # dinlenirken bile çatık
     'blink':   dict(brow=0.32, by=5, open=0.0, pupil=4.2, mouth='closed', jaw=0),
@@ -317,7 +319,7 @@ def azrail_arm(side=1, lit=True):
 
 
 def azrail(expr='neutral', armL=10, armR=-10, spread=1.0, hr=0):
-    s = group(wing(-1, spread), -40, 60) + group(wing(1, spread), 40, 60)
+    s = group(wing(-1, spread), -40, 60, SWAY * 0.7) + group(wing(1, spread), 40, 60, SWAY * 0.7)
     s += group(azrail_arm(-1, False), -84, 40, armL) + azrail_body() + group(azrail_arm(1, True), 84, 40, armR)
     s += group(azrail_head(expr), 0, -118, hr, 0.9, None, 0, 118)
     return s
@@ -383,6 +385,17 @@ def goblet():
 
 
 def feather(col=RED):
+    """Kanat tüyü: eğri sap, yanlara açılan ve yer yer yarılan tüy telleri, dipte ak hav. Sapın ortası (0,0)."""
     reseed('feather' + col)
-    f = [(0, -60), (16, -30), (14, 20), (0, 60), (-14, 20), (-16, -30)]
-    return blob(f, col, 2.6) + ink([(0, -56), (2, 58)], 1.8, wob=0.3) + dashrow([(0, -40), (0, 40)], 14, 10, 0.9, 1.8, smooth=False)
+    quill = [(4, 96), (0, 40), (-6, -30), (-2, -96)]
+    q = catmull(quill, False, 8)
+    left = [(4, 60), (-22, 44), (-18, 30), (-34, 8), (-28, -6), (-40, -34), (-30, -44), (-30, -70), (-14, -84), (-2, -98)]
+    right = [(-2, -98), (12, -86), (22, -62), (16, -50), (26, -28), (22, 0), (28, 14), (18, 38), (22, 48), (4, 60)]
+    s = fill(left + right, col, 0.8, smooth=False) + fill(left + [(-2, -98), (-6, -30), (0, 40)], COBALT, 0.6, smooth=False, op=0.28)
+    s += ink(left + right, 2.4, closed=True, smooth=False, wob=0.3)
+    for i in range(3, len(q) - 3, 3):                                   # tüy telleri: saptan dışa, uca doğru eğik
+        x, y = q[i]
+        s += ink([(x, y), (x - 24, y - 12)], 1.7, wob=0, taper=(0, 0.7), smooth=False) + ink([(x, y), (x + 20, y - 14)], 1.7, wob=0, taper=(0, 0.7), smooth=False)
+    s += ink(quill, 4.5, col=PALE, op=1, wob=0.2, taper=(0, 0.5)) + ink(quill, 1.6, wob=0.2, taper=(0, 0.5))
+    s += ''.join(ink([(4, 70 + k * 6), (4 + sx * (16 - k * 3), 62 + k * 10)], 2.2, col=PALE, op=1, wob=0, taper=(0, 0.6), smooth=False) for k in range(3) for sx in (-1, 1))
+    return s
